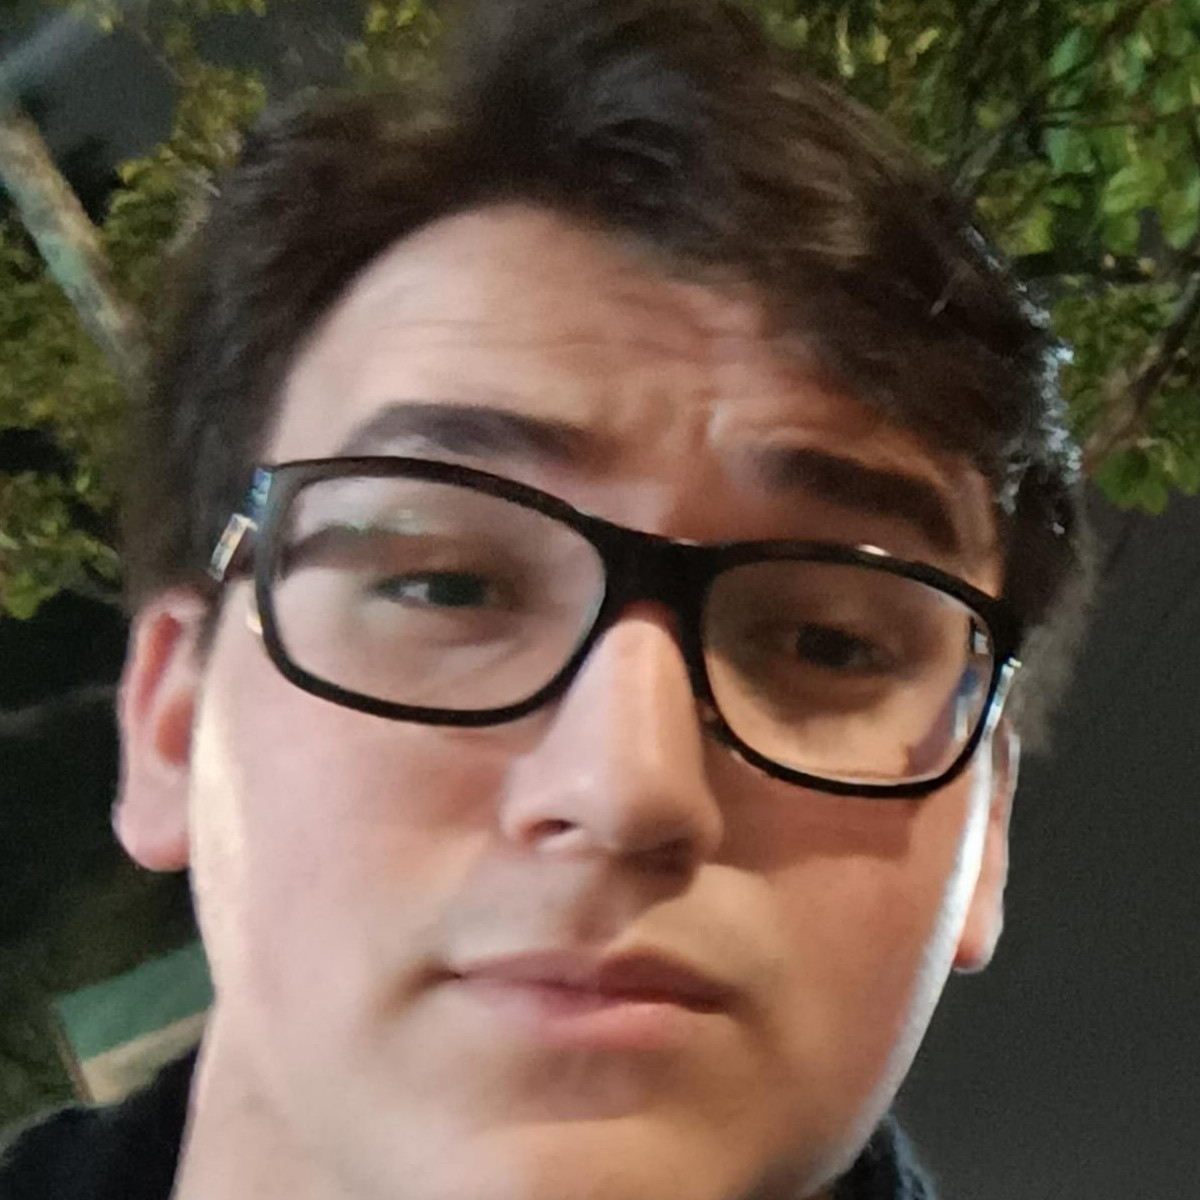
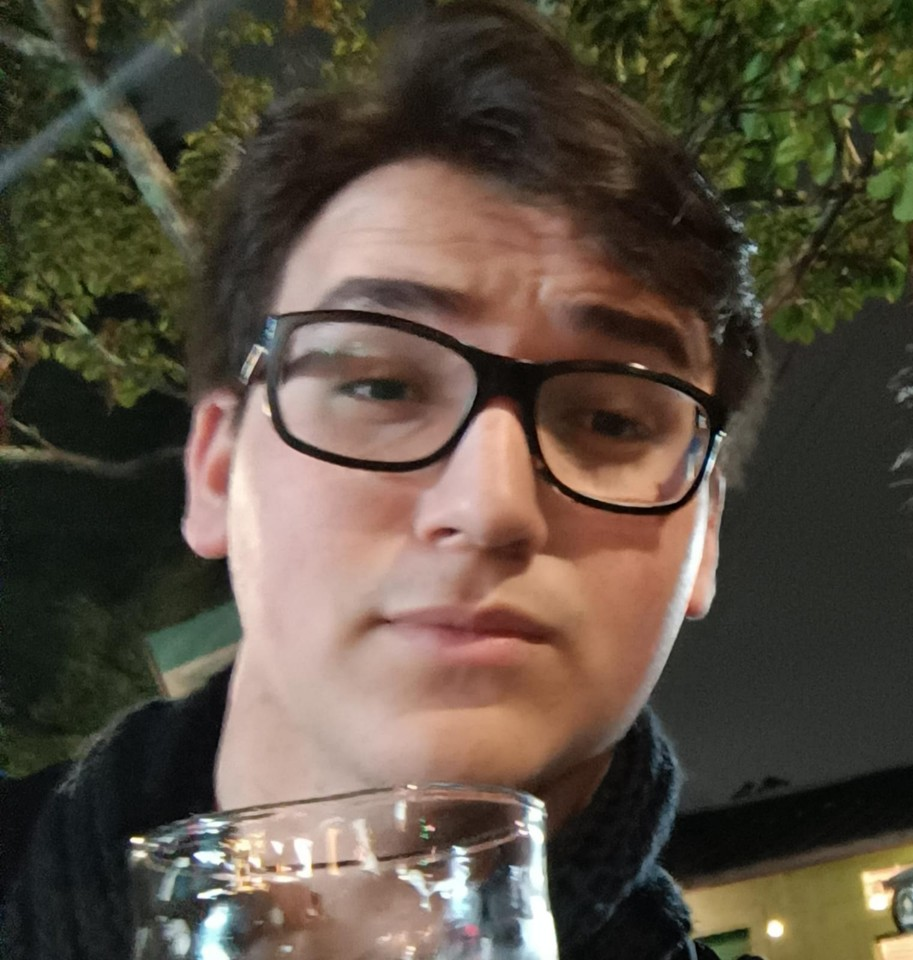
Suaviza as animações e troca a foto

diff --git a/src/scripts/site.ts b/src/scripts/site.ts
@@ -253,13 +253,13 @@ function projectsWall() {
         onScrubComplete: () => skew(0),
       },
     });
-    const along = (trigger: Element, start: string, end: string) => ({
+    const along = (trigger: Element, start: string, end: string, responsive = false) => ({
       trigger,
       containerAnimation: wall,
       start,
       end,
       scrub: true,
-      invalidateOnRefresh: true,
+      invalidateOnRefresh: responsive,
     });
 
     $$('[data-field]', track).forEach((panel) => {
@@ -277,9 +277,9 @@ function projectsWall() {
       const img = $('[data-intro-img]', intro);
       if (img) gsap.fromTo(img, { xPercent: 0, scale: 1.04 }, { xPercent: 38, scale: 1.18, ease: 'none', scrollTrigger: along(intro, 'left left', 'right left') });
       const title = $('.intro-title', intro);
-      if (title) gsap.fromTo(title, { x: 0 }, { x: () => window.innerWidth * 0.45, ease: 'none', scrollTrigger: along(intro, 'left left', 'right left') });
+      if (title) gsap.fromTo(title, { x: 0 }, { x: () => window.innerWidth * 0.45, ease: 'none', scrollTrigger: along(intro, 'left left', 'right left', true) });
       const foot = $('[data-intro-foot]', intro);
-      if (foot) gsap.fromTo(foot, { x: 0, opacity: 1 }, { x: () => window.innerWidth * 0.2, opacity: 0, ease: 'power1.in', scrollTrigger: along(intro, 'left left', 'left -55%') });
+      if (foot) gsap.fromTo(foot, { x: 0, opacity: 1 }, { x: () => window.innerWidth * 0.2, opacity: 0, ease: 'power1.in', scrollTrigger: along(intro, 'left left', 'left -55%', true) });
     }
 
     $$('[data-panel]', track).forEach((panel) => {
@@ -292,7 +292,7 @@ function projectsWall() {
       gsap.fromTo(
         [title, ghost].filter(Boolean),
         { x: () => window.innerWidth * 0.16 },
-        { x: () => -window.innerWidth * 0.16, ease: 'none', scrollTrigger: along(panel, 'left right', 'right left') },
+        { x: () => -window.innerWidth * 0.16, ease: 'none', scrollTrigger: along(panel, 'left right', 'right left', true) },
       );
       if (plate) {
         gsap.fromTo(

diff --git a/src/scripts/reveals.ts b/src/scripts/reveals.ts
@@ -60,8 +60,8 @@ function publications() {
     const content = Array.from(pub.children).filter((c) => c !== bar);
     const year = one('.pub-year', pub);
     const target = year ? parseInt(year.textContent ?? '0', 10) : 0;
+    gsap.set(content, { opacity: 0 });
     const tl = gsap.timeline({ scrollTrigger: once(pub) });
-    tl.set(content, { opacity: 0 });
     tl.to(bar, { scaleX: 1, duration: 0.55, ease: 'expo.in' });
     tl.set(content, { opacity: 1 });
     tl.to(bar, { scaleX: 0, transformOrigin: '100% 50%', duration: 0.7, ease: 'expo.out' });
@@ -151,20 +151,11 @@ function about() {
   }
   const photo = one('.about-photo', section);
   if (photo) {
-    const img = one('img', photo);
     gsap.fromTo(photo, { clipPath: 'inset(0% 0% 100% 0%)' }, {
       clipPath: 'inset(0% 0% 0% 0%)',
       ease: 'none',
       scrollTrigger: { trigger: photo, start: 'top 92%', end: 'top 45%', scrub: 0.5 },
     });
-    if (img) {
-      gsap.fromTo(img, { scale: 1.35, yPercent: -6 }, {
-        scale: 1,
-        yPercent: 6,
-        ease: 'none',
-        scrollTrigger: { trigger: photo, start: 'top bottom', end: 'bottom top', scrub: true },
-      });
-    }
   }
   const text = one('.about-text', section);
   if (text) {

diff --git a/src/scripts/loader.ts b/src/scripts/loader.ts
@@ -42,10 +42,6 @@ export function runLoader(): Promise<void> {
       const exit = gsap.timeline({
         onComplete: () => {
           root.classList.remove('is-loading');
-          try {
-            sessionStorage.setItem('fg-loaded', '1');
-          } catch {
-          }
           el.remove();
         },
       });
